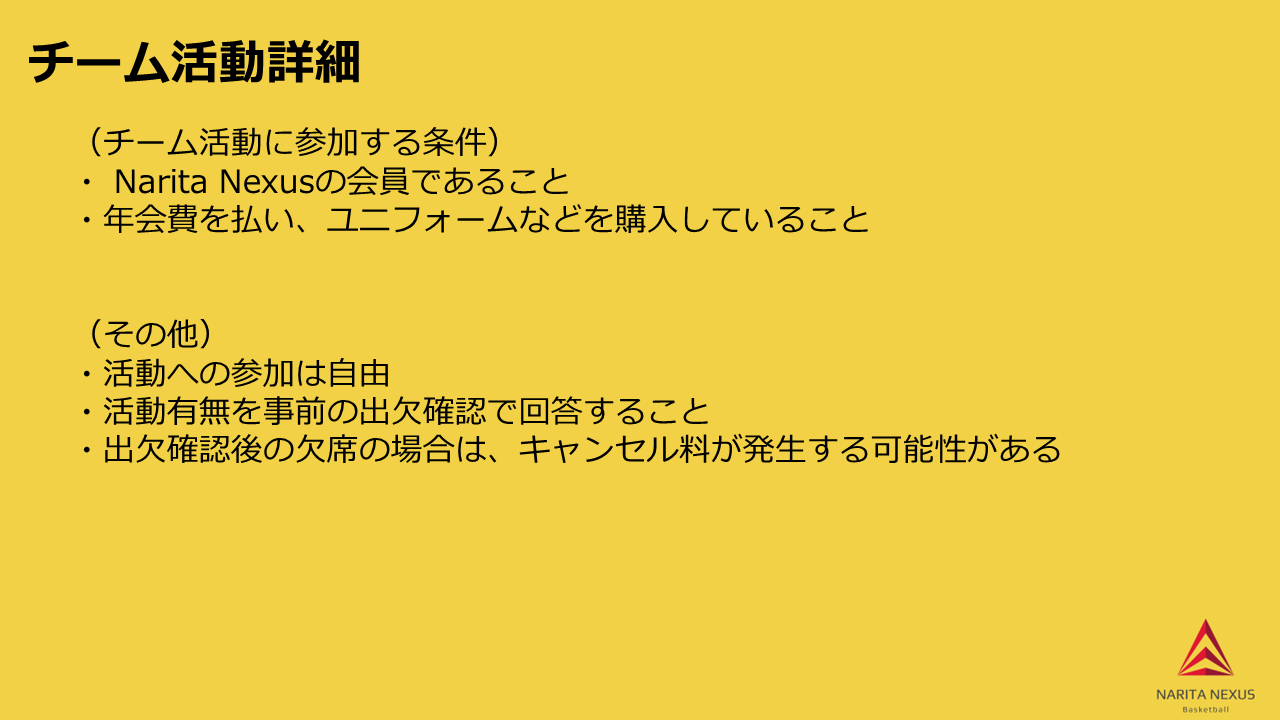
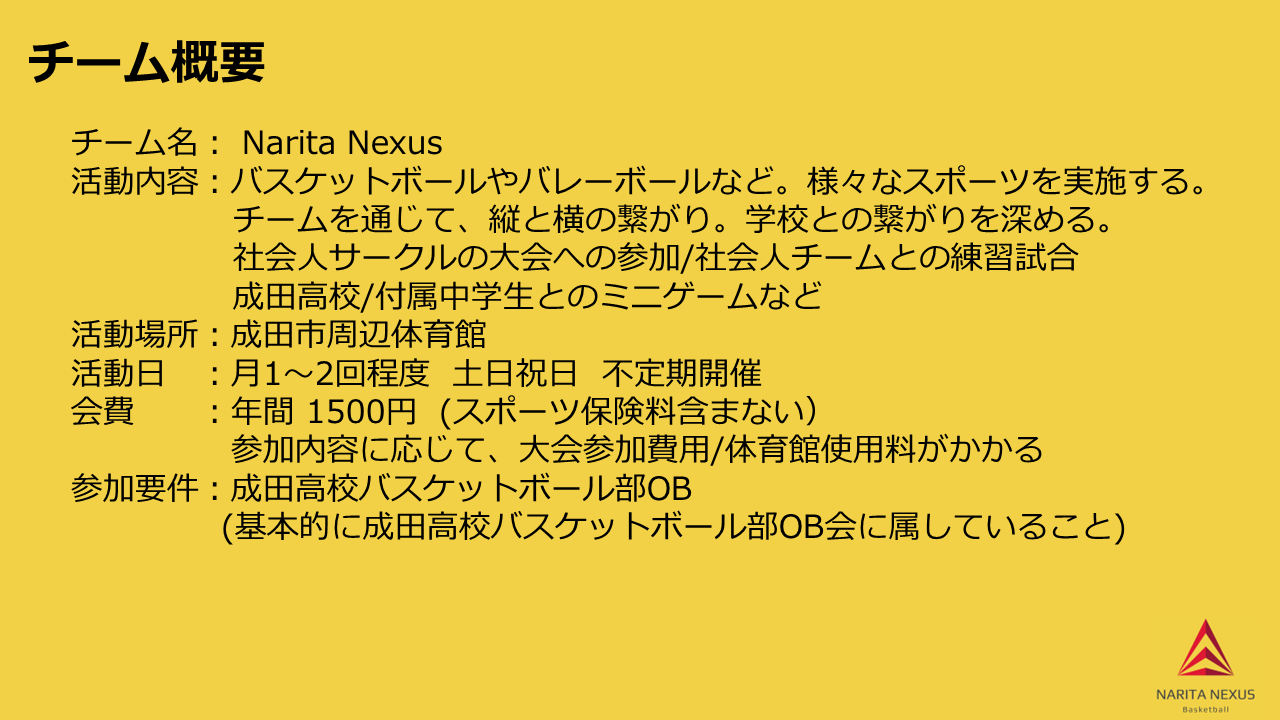
update: narita nexus

Changed region(s): [[0.0625, 0.1833, 0.9375, 0.7639], [0.5625, 0.7028, 0.875, 0.7639], [0.125, 0.0306, 0.2812, 0.1222]]

diff --git a/narita-nexus/docs/vision_fy2024.md b/narita-nexus/docs/vision_fy2024.md
@@ -1,0 +1,49 @@
+---
+#layout: narita-nexus_activities
+title: "vision_fy2024"
+icon: /icons/narita-nexus.png
+#banner: /banners/narita-nexus_tatakau-gunndann.png
+date: 2024/07/05 21:00
+prev: false
+next: false
+---
+<script setup>
+import Carousel from '/.vitepress/theme/components/Carousel.vue';
+import { ref } from 'vue';
+
+const slide_carousels = ref ({
+  thumb: '/slides/vision_fy2024/slide_001.PNG',
+  list:[
+    '/slides/vision_fy2024/slide_001.PNG',
+    '/slides/vision_fy2024/slide_002.PNG',
+    '/slides/vision_fy2024/slide_003.PNG',
+    '/slides/vision_fy2024/slide_004.PNG',
+    '/slides/vision_fy2024/slide_005.PNG',
+    '/slides/vision_fy2024/slide_006.PNG',
+    '/slides/vision_fy2024/slide_007.PNG',
+    '/slides/vision_fy2024/slide_008.PNG',
+    '/slides/vision_fy2024/slide_009.PNG',
+    '/slides/vision_fy2024/slide_010.PNG',
+    '/slides/vision_fy2024/slide_011.PNG',
+    '/slides/vision_fy2024/slide_012.PNG',
+    '/slides/vision_fy2024/slide_013.PNG',
+    '/slides/vision_fy2024/slide_014.PNG',
+    '/slides/vision_fy2024/slide_015.PNG',
+    '/slides/vision_fy2024/slide_016.PNG',
+    '/slides/vision_fy2024/slide_017.PNG',
+    '/slides/vision_fy2024/slide_018.PNG',
+    '/slides/vision_fy2024/slide_019.PNG',
+    '/slides/vision_fy2024/slide_020.PNG',
+  ],
+})
+</script>
+
+---
+# Narita Nexus戦略的ビジョン
+
+2024年度Narita Nexus戦略的ビジョンについて  
+※クリックするとスライドが表示されます
+<Carousel :carousels="slide_carousels"/>
+
+動画はこちら
+<iframe width="560" height="315" src="https://www.youtube.com/embed/ja50W91ZR8Y?si=lnptXAzDberGmyA8" title="YouTube video player" frameborder="0" allow="accelerometer; autoplay; clipboard-write; encrypted-media; gyroscope; picture-in-picture; web-share" referrerpolicy="strict-origin-when-cross-origin" allowfullscreen></iframe>

diff --git a/narita-nexus/docs/for_new_member.md b/narita-nexus/docs/for_new_member.md
@@ -1,0 +1,49 @@
+---
+#layout: narita-nexus_activities
+title: "for New member"
+icon: /icons/narita-nexus.png
+banner: /banners/narita-nexus_tatakau-gunndann.png
+date: 2024/07/05 21:00
+prev: false
+next: false
+---
+<script setup>
+import Carousel from '/.vitepress/theme/components/Carousel.vue';
+import { ref } from 'vue';
+
+const slide_carousels = ref ({
+  thumb: '/slides/for_new_member/slide_001.PNG',
+  list:[
+    '/slides/for_new_member/slide_001.PNG',
+    '/slides/for_new_member/slide_002.PNG',
+    '/slides/for_new_member/slide_003.PNG',
+    '/slides/for_new_member/slide_004.PNG',
+    '/slides/for_new_member/slide_005.PNG',
+    '/slides/for_new_member/slide_006.PNG',
+    '/slides/for_new_member/slide_007.PNG',
+    '/slides/for_new_member/slide_008.PNG',
+    '/slides/for_new_member/slide_009.PNG',
+    '/slides/for_new_member/slide_010.PNG',
+    '/slides/for_new_member/slide_011.PNG',
+    '/slides/for_new_member/slide_012.PNG',
+    '/slides/for_new_member/slide_013.PNG',
+  ],
+})
+</script>
+
+---
+# Narita Nexusについて
+
+Narita Nexusについては以下のページからご確認くださいmm  
+- [Overview](../overview.md)
+- [Vision FY2024](./vision_fy2024.md)
+
+---
+# Narita Nexus参加/加入希望者
+主に現役生に向けてのコンテンツになります。  
+成田高校バスケットボールOBチームNarita Nexusの活動参加希望者は以下をご確認ください。  
+保護者の方も確認のうえで了承を得てください。  
+※クリックするとスライドが表示されます
+<Carousel :carousels="slide_carousels"/>
+
+# ご質問は近藤 / 阿部までご連絡下さい。

diff --git a/narita-nexus/index.md b/narita-nexus/index.md
@@ -24,6 +24,9 @@ features:
   - title: "Activity"
     details: "Narita Nexusの活動"
     link: "./activities/"
+  - title: "for new member"
+    details: "新規にNexusに参画する方へ"
+    link: "./docs/for_new_member/"
 ---
 
 <script lang="ts" setup> 
